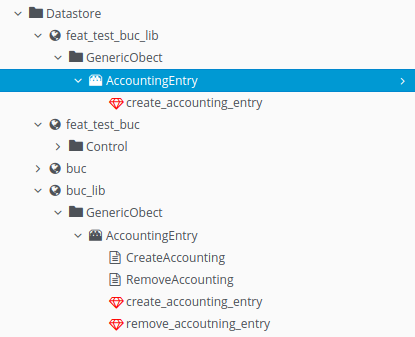
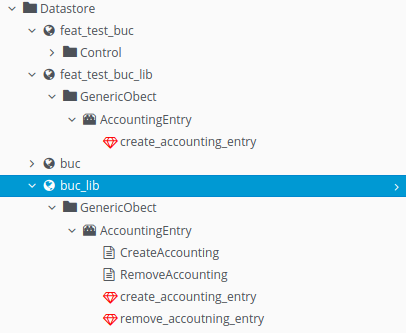
Fix minor bugs in domain handling (#47)
* print stack trace for errors in debug mode (#46)
* fix bug computing changeset, when two domains have similar names (#29)
* honor the domains priority during the import (#44)
* update documentation and changelog

Changed region(s): [[0.0, 0.0, 1.0, 0.991]]

diff --git a/lib/miq_flow/domain.rb b/lib/miq_flow/domain.rb
@@ -34,7 +34,7 @@ module MiqFlow
     # Filter changed files in this Automate domain from the list of all files
     #
     def _limit_changeset(files)
-      @changeset = files.select{ |f| f.include?(@export_name) && f.include?(@export_dir) }
+      @changeset = files.select{ |f| f.include?("#{@export_name}#{File::SEPARATOR}") && f.include?(@export_dir) }
     end
 
     # create a new MiqDomain Object from information on the file system
@@ -49,6 +49,7 @@ module MiqFlow
       opts[:import_method] = dom[:import_method]
       opts[:provider_name] = dom[:provider]
       opts[:branch_name]   = dom[:branch_name]
+      opts[:miq_priority]  = dom.dig(:domain, 'object', 'attributes', 'priority')
 
       new_name = "feat_#{dom[:feature_name]}_#{opts[:export_name]}"
       opts.reject!{ |_, value| value.nil? }

diff --git a/lib/miq_flow/feature.rb b/lib/miq_flow/feature.rb
@@ -54,8 +54,12 @@ module MiqFlow
       @git_repo.checkout(@git_branch)
       paths = get_diff_paths()
       deploy_opts = { changeset: paths, git_workdir: @git_repo.workdir }
+      # The import does not honor the priority setting in the domain => import from lowest to highest priority
+      @miq_domain.sort!{ |dom1, dom2| dom1.miq_priority <=> dom2.miq_priority }
       @miq_domain.each do |domain|
         $logger.info("Deploying: #{domain.name}")
+        $logger.debug("  Directory: #{domain.export_dir}/#{domain.export_name}")
+        $logger.debug("  Priority: #{domain.miq_priority}")
         domain.deploy(deploy_opts.dup)
       end
     end

diff --git a/lib/miq_flow/miqflow.rb b/lib/miq_flow/miqflow.rb
@@ -59,6 +59,11 @@ module MiqFlow
     valid
   end
 
+  def self.validate_ruby(valid)
+    # Ruby 2.3 was available since Euwe, this should be fine
+    log_problem(valid, 'Ruby > 2.3.0: Hash#dig not available') unless Hash.method_defined?(:dig)
+  end
+
   def self.validate_git(valid)
     log_problem(valid, 'No git repository specified') if $settings[:git][:url].nil? && $settings[:git][:path].nil?
   end

diff --git a/lib/miq_flow/mixin_settings.rb b/lib/miq_flow/mixin_settings.rb
@@ -53,7 +53,7 @@ module MiqFlow
       $logger = Logger.new(STDERR) if $logger.nil?
       $logger.level = log_level[level.to_sym]
 
-      # This is just for ducomentation, when dumping the config
+      # This is just for documentation, when dumping the config
       $settings[:log_level] = level
     end
 

diff --git a/doc/user_guide.md b/doc/user_guide.md
@@ -148,7 +148,6 @@ Feature: test on branch feature-test-follow-user-guide
 # files miq-flow is going to import
 feat_test_buc
   automate/buc/Control/Email.class/__methods__/create_accounting_entry_on_vm_dedection.rb
-  automate/buc_lib/GenericObect/AccountingEntry.class/__methods__/create_accounting_entry.rb
 feat_test_buc_lib
   automate/buc_lib/GenericObect/AccountingEntry.class/__methods__/create_accounting_entry.rb
 ```

diff --git a/CHANGELOG.md b/CHANGELOG.md
@@ -3,9 +3,13 @@
 ## [unreleased] 2019-??-??
 ### Added
 - Add user guide (#39)
+- Print error stack trace in verbose mode (#46)
 
 ### Fixed
 - Updated outdated information in  README (#39)
+- Honor Domains priority during import (#44)
+- Fix display error if domains are named similar (#29)
+
 
 ## [1.0.0-rc1] 2019-01-28
 ### Added
